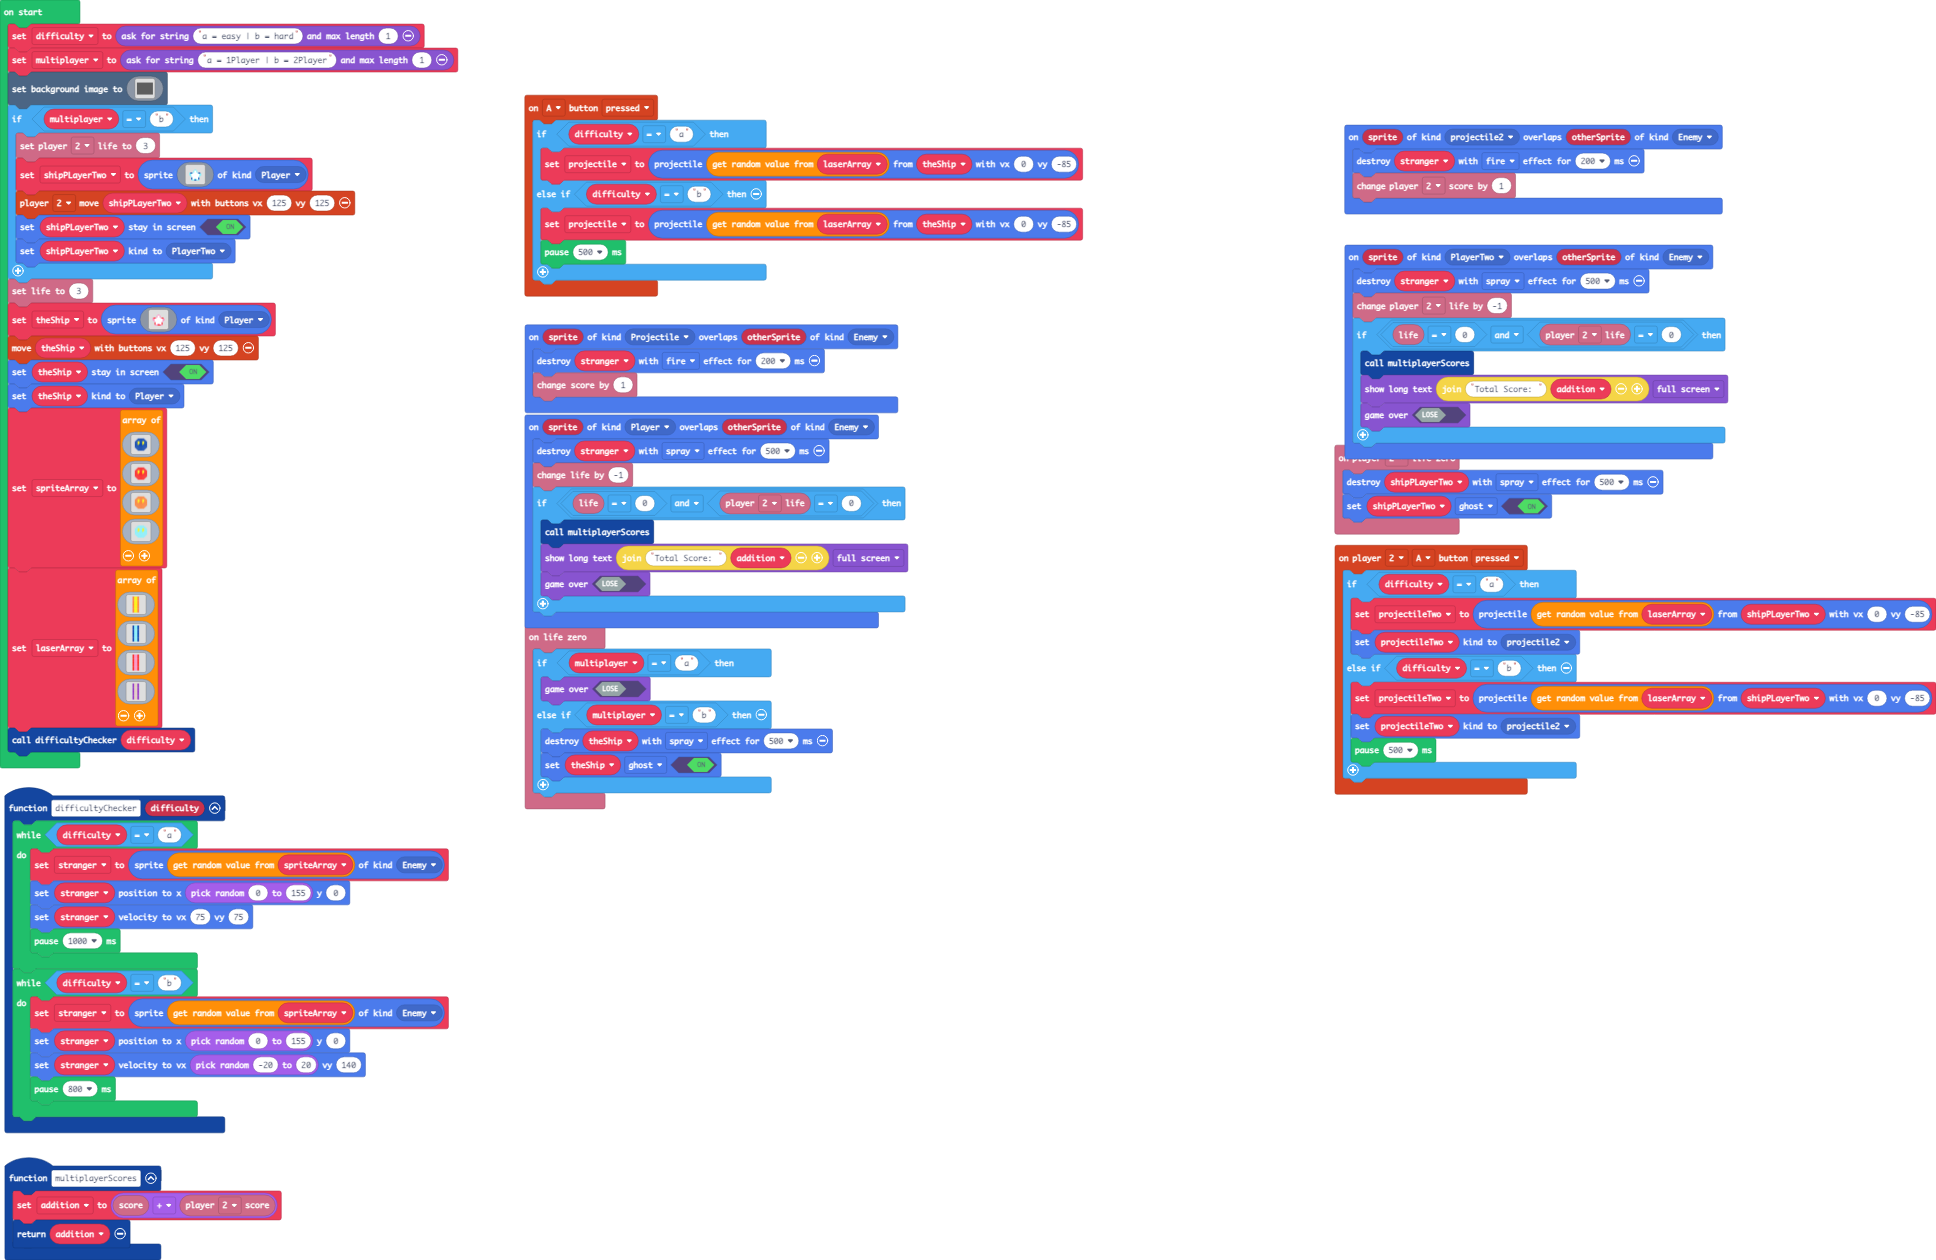
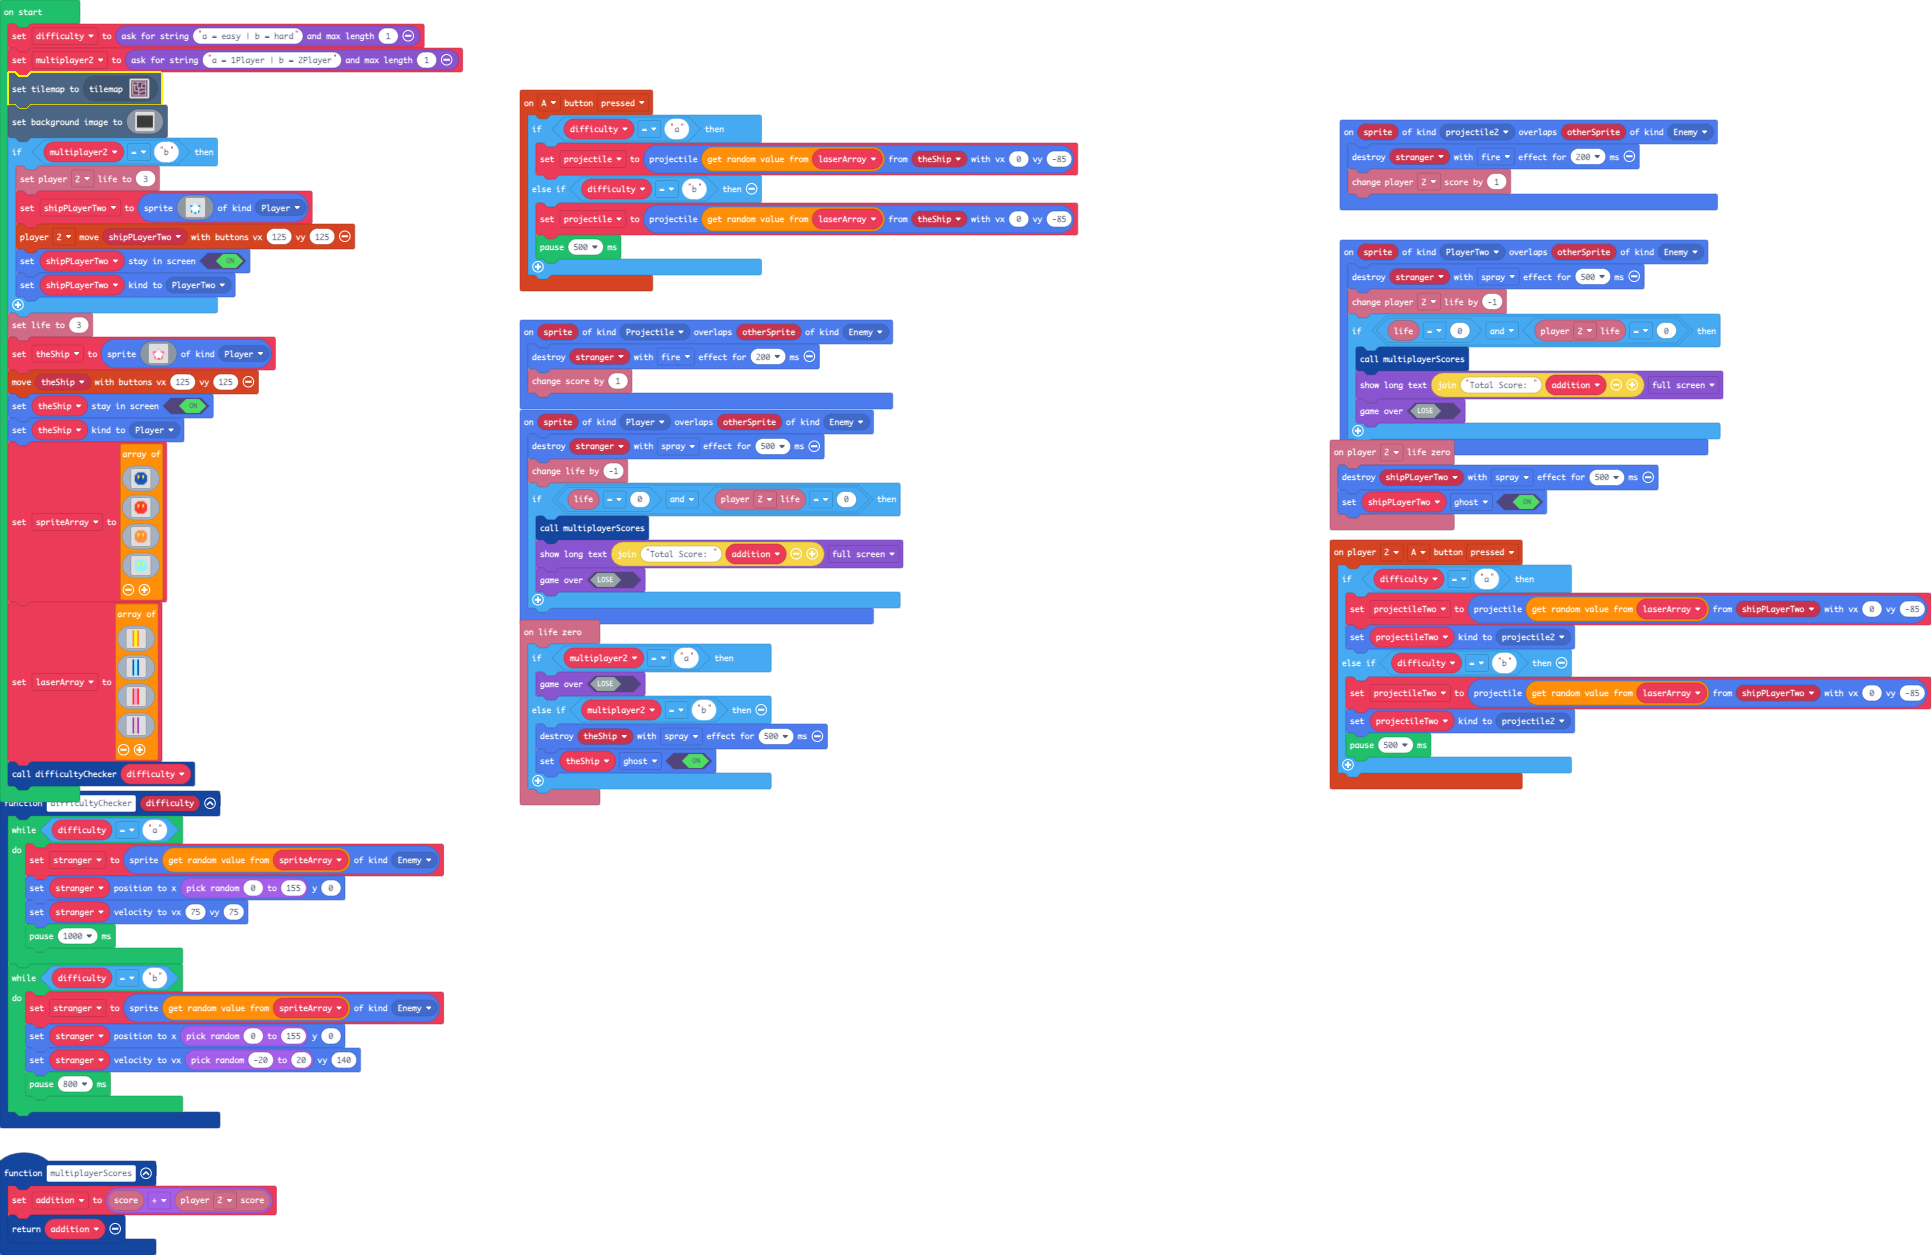
Update pxt.json, main.blocks, main.ts, tilemap.g.jres, tilemap.g.ts

Changed region(s): [[0.0, 0.0311, 0.2486, 1.0], [0.2486, 0.0622, 0.5593, 0.6526], [0.6836, 0.0932, 1.0, 0.6215]]

diff --git a/tilemap.g.ts b/tilemap.g.ts
@@ -1,0 +1,58 @@
+// Auto-generated code. Do not edit.
+namespace myTiles {
+    //% fixedInstance jres blockIdentity=images._tile
+    export const transparency16 = image.ofBuffer(hex``);
+
+    helpers._registerFactory("tilemap", function(name: string) {
+        switch(helpers.stringTrim(name)) {
+            case "level1":
+            case "level1":return tiles.createTilemap(hex`1000100000000000000000000000000000000000000000000000000000000000000000000000000000000000000000000000000000000000000000000000000000000000000000000000000000000000000000000000000000000000000000000000000000000000000000000000000000000000000000000000000000000000000000000000000000000000000000000000000000000000000000000000000000000000000000000000000000000000000000000000000000000000000000000000000000000000000000000000000000000000000000000000000000000000000000000000000000000000000000000000000000000000000000000000000000000000`, img`
+. . . . . . . . . . . . . . . . 
+. . . . . . . . . . . . . . . . 
+. . . . . . . . . . . . . . . . 
+. . . . . . . . . . . . . . . . 
+. . . . . . . . . . . . . . . . 
+. . . . . . . . . . . . . . . . 
+. . . . . . . . . . . . . . . . 
+. . . . . . . . . . . . . . . . 
+. . . . . . . . . . . . . . . . 
+. . . . . . . . . . . . . . . . 
+. . . . . . . . . . . . . . . . 
+. . . . . . . . . . . . . . . . 
+. . . . . . . . . . . . . . . . 
+. . . . . . . . . . . . . . . . 
+. . . . . . . . . . . . . . . . 
+. . . . . . . . . . . . . . . . 
+`, [myTiles.transparency16], TileScale.Sixteen);
+            case "level2":
+            case "level2":return tiles.createTilemap(hex`1000100001010101010101010101010101010101030202050202020202020202020202010102010101010201010101010101020101020101010102010101050202020201010202020202050101010201010102010102010201010201010102010101020101020102010102010101020101010201010201020101020202020202020205010102010201010102010101010101020101020102010101020101010101010201010201050202020201010502020202010102010101010102020202010101020101020101010101020101010101010201010201010101010201010101010102010105020202020202020205020202020101010101010101010101010101010401`, img`
+2 2 2 2 2 2 2 2 2 2 2 2 2 2 2 2 
+. . . . . . . . . . . . . . . 2 
+2 . 2 2 2 2 . 2 2 2 2 2 2 2 . 2 
+2 . 2 2 2 2 . 2 2 2 . . . . . 2 
+2 . . . . . . 2 2 2 . 2 2 2 . 2 
+2 . 2 . 2 2 . 2 2 2 . 2 2 2 . 2 
+2 . 2 . 2 2 . 2 2 2 . 2 2 2 . 2 
+2 . 2 . 2 2 . . . . . . . . . 2 
+2 . 2 . 2 2 2 . 2 2 2 2 2 2 . 2 
+2 . 2 . 2 2 2 . 2 2 2 2 2 2 . 2 
+2 . 2 . . . . . 2 2 . . . . . 2 
+2 . 2 2 2 2 2 . . . . 2 2 2 . 2 
+2 . 2 2 2 2 2 . 2 2 2 2 2 2 . 2 
+2 . 2 2 2 2 2 . 2 2 2 2 2 2 . 2 
+2 . . . . . . . . . . . . . . 2 
+2 2 2 2 2 2 2 2 2 2 2 2 2 2 . 2 
+`, [myTiles.transparency16,sprites.dungeon.darkGroundNorthEast1,sprites.dungeon.floorLight1,sprites.dungeon.doorLockedWest,sprites.dungeon.doorLockedSouth,sprites.dungeon.collectibleRedCrystal], TileScale.Sixteen);
+        }
+        return null;
+    })
+
+    helpers._registerFactory("tile", function(name: string) {
+        switch(helpers.stringTrim(name)) {
+            case "transparency16":return transparency16;
+        }
+        return null;
+    })
+
+}
+// Auto-generated code. Do not edit.

diff --git a/main.ts b/main.ts
@@ -88,6 +88,7 @@ let multiplayer2 = ""
 let difficulty = ""
 difficulty = game.askForString("a = easy | b = hard", 1)
 multiplayer2 = game.askForString("a = 1Player | b = 2Player", 1)
+tiles.setCurrentTilemap(tilemap`level2`)
 scene.setBackgroundImage(img`
     ffffffffffffffffffffffffffffffffffffffffffffffffffffffffffffffffffffffffffffffffffffffffffffffffffffffffffffffffffffffffffffffffffffffffffffffffffffffffffffffff
     ffffffffffffffffffffffffffffffffffffffffffffffffffffffffffffffffffffffffffffffffffffffffffffffffffffffffffffffffffffffffffffffffffffffffffffffffffffffffffffffff
